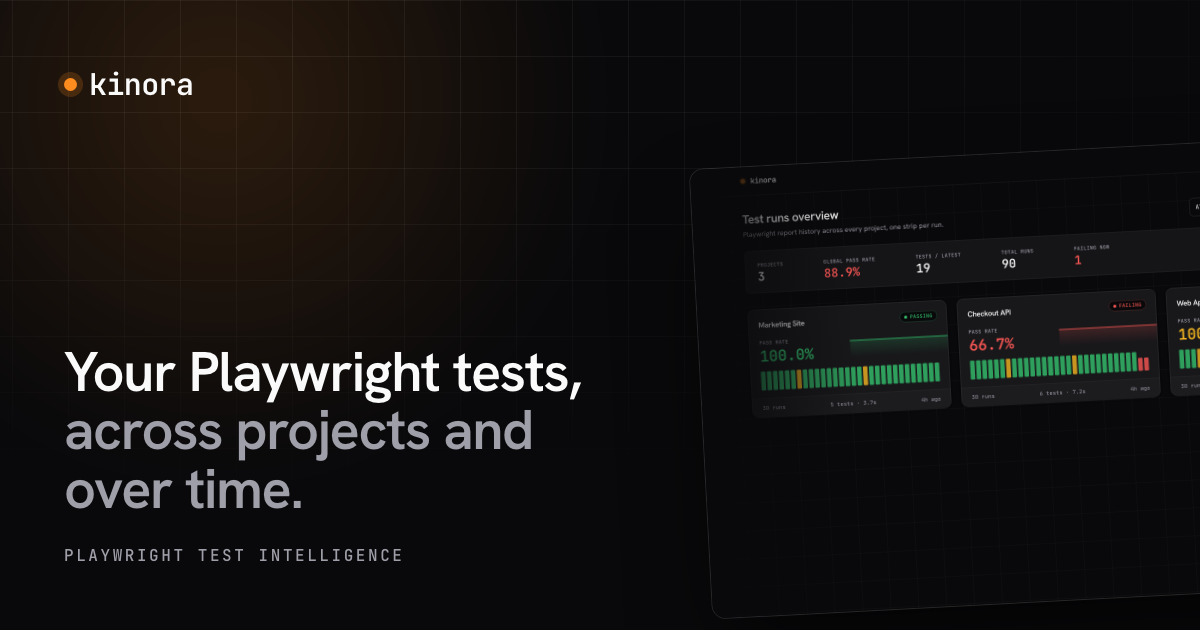
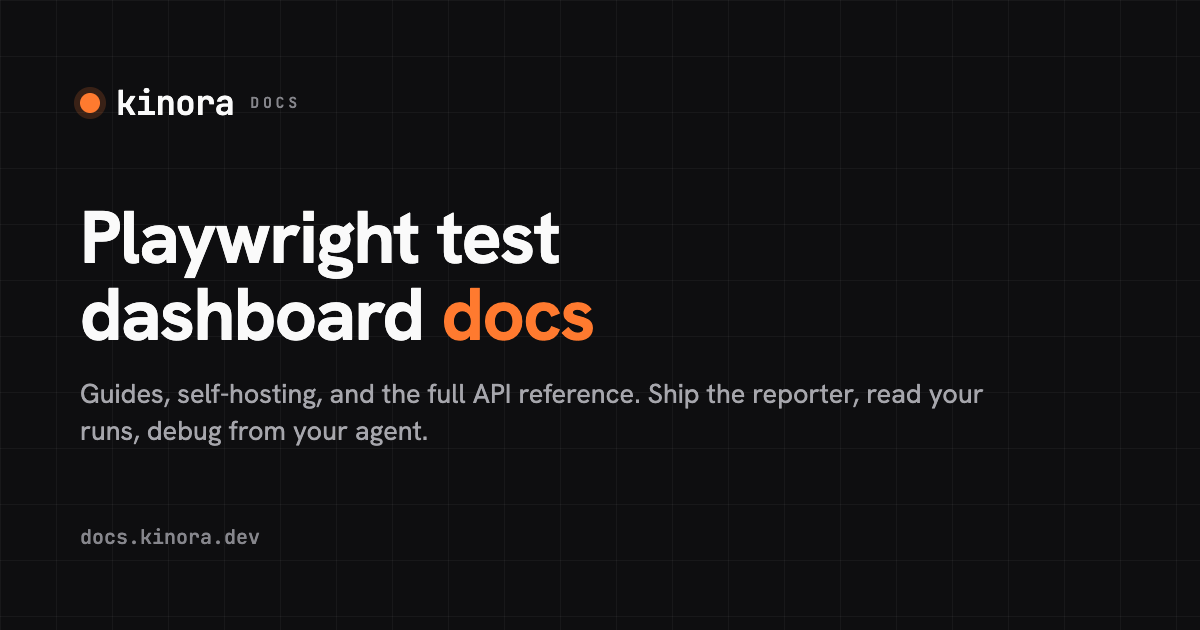
feat(docs): add JSON-LD, breadcrumbs, llms-full.txt, and a branded OG image (SEO/GEO)

diff --git a/docs/src/pages/llms.txt.ts b/docs/src/pages/llms.txt.ts
@@ -23,6 +23,17 @@ ${sections}
 - App (sign up / log in): ${SITE.app}
 - Live demo: ${SITE.demo}
 - GitHub: ${SITE.repo}
+- Full text (every page in one file): ${url}/llms-full.txt
+
+## Key facts
+- License: FSL-1.1-MIT. The server, web, and desktop are FSL-1.1 (source-available, converts to MIT after 2 years); the reporter, CLI, core, ui, mcp, and the trace viewer are MIT.
+- Ingest: add @kinora/reporter to playwright.config, or upload results.json with the kinora CLI from CI. Both derive the same cross-run test identity, so history stays stable regardless of upload path.
+- Alerts: per-project notifications on new failures / regressions via Slack, email, and webhook, with an always / on-failure / on-regression policy.
+- GitHub PR comments: on a pull_request run, the reporter or CLI post a summary comment on the PR (pass/fail, tests newly failing vs the base branch, link to the run) using the CI job's GITHUB_TOKEN, so no credentials are stored; works self-host and cloud.
+- MCP: @kinora/mcp exposes failures, traces, and per-test history to coding agents (Claude Code, Cursor, and others) over stdio.
+- Desktop: an Electron app for macOS, Windows, and Linux - a local Playwright trace viewer (no account) plus an account dashboard that can re-run a failing test locally.
+- Self-host: one Docker Compose (KINORA_CLOUD=false); every feature, including alerts, is unlimited. Cloud has a free tier (2,500 test results/month, 1 project, 7-day retention) and paid plans from $49/month.
+- API: plain REST, API-key (Bearer) auth. POST /api/v1/runs to ingest a run; GET read routes for projects, runs, failures, and per-test history.
 `
 
   return new Response(body, { headers: { 'Content-Type': 'text/plain; charset=utf-8' } })

diff --git a/docs/src/pages/llms-full.txt.ts b/docs/src/pages/llms-full.txt.ts
@@ -1,0 +1,35 @@
+import type { APIRoute } from 'astro'
+import { getCollection } from 'astro:content'
+import { hrefFor, NAV } from '../lib/nav'
+import { SITE } from '../lib/site'
+
+export const GET: APIRoute = async () => {
+  const url = SITE.url
+  const entries = await getCollection('docs')
+
+  const bySlug = new Map()
+  for (const e of entries) {
+    const slug = e.id === 'index' ? '' : e.id.replace(/\/index$/, '')
+    bySlug.set(slug, e)
+  }
+
+  const pages = NAV.flatMap(g => g.items)
+    .map((item) => {
+      const e = bySlug.get(item.slug)
+      if (!e)
+        return null
+      const desc = e.data.description ? `\n\n${e.data.description}` : ''
+      return `# ${e.data.title}\n${url}${hrefFor(item.slug)}${desc}\n\n${(e.body ?? '').trim()}`
+    })
+    .filter(Boolean)
+    .join('\n\n---\n\n')
+
+  const body = `# kinora docs - full content
+
+> Documentation for kinora, the dashboard for Playwright test reports across projects and over time, with an embedded trace viewer. CI runs push their results to kinora; it tracks pass rates, trends, and flaky tests, and opens the full Playwright trace inline for any failure. Every documentation page is concatenated below in one file.
+
+${pages}
+`
+
+  return new Response(body, { headers: { 'Content-Type': 'text/plain; charset=utf-8' } })
+}
